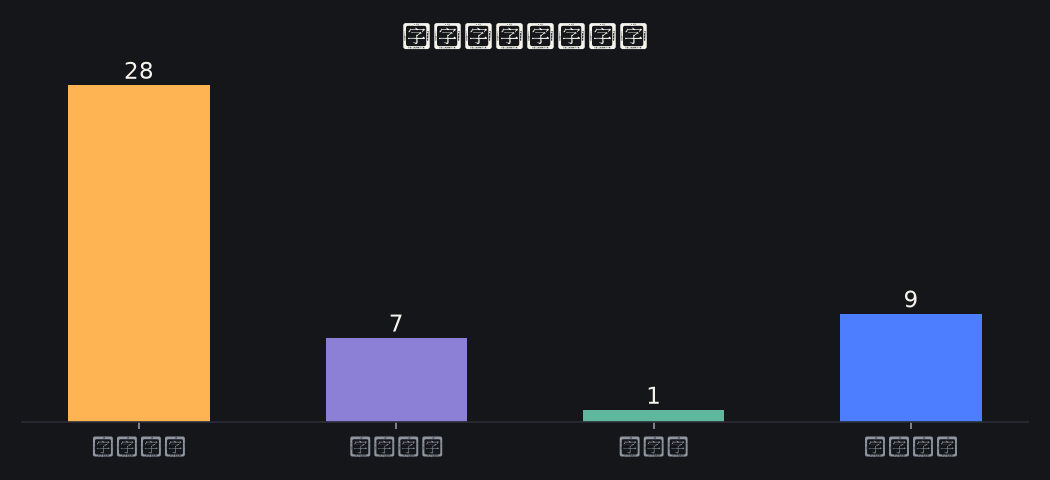
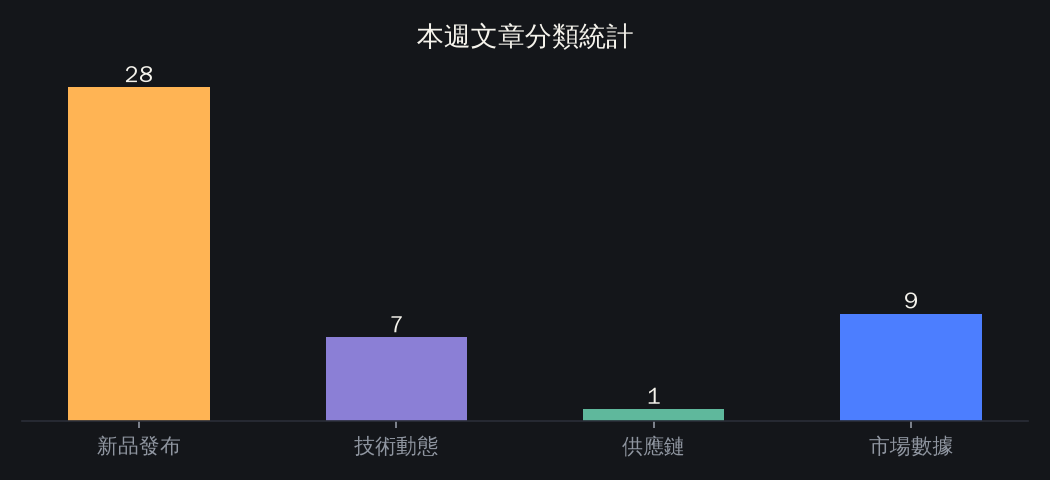
fix: use WenQuanYi Zen Hei for chart CJK text (was rendering as tofu boxes)

diff --git a/generate_weekly_report.py b/generate_weekly_report.py
@@ -68,7 +68,7 @@ def _draw_category_chart(articles: list[dict], out_path: str) -> bool:
     import matplotlib.pyplot as plt
 
     # 盡量找一個裝置上有的中文字型，找不到就讓 matplotlib 用預設（英文/數字仍會正常顯示）
-    for font_name in ["Microsoft JhengHei", "Microsoft YaHei", "PingFang TC",
+    for font_name in ["WenQuanYi Zen Hei", "Microsoft JhengHei", "Microsoft YaHei", "PingFang TC",
                        "Noto Sans CJK TC", "SimHei", "Arial Unicode MS"]:
         if font_name in {f.name for f in matplotlib.font_manager.fontManager.ttflist}:
             plt.rcParams["font.sans-serif"] = [font_name]

diff --git a/reports/2026-W34.md b/reports/2026-W34.md
@@ -1,29 +1,19 @@
 # 2026-08-17 ～ 2026-08-23 投影機產業週報
 
 ## 本週重點
-本週投影機市場動態相當豐富！品牌端有當貝推出主打靈動雲台與行動供電的便攜雷射新品 RX10，明基則發表高亮度雷射商用機 LH660。同時，中國經銷商通路針對愛普生、奧圖碼、松下與明基等多款家用及工程機種展開一波特價促銷。在供應鏈與前瞻技術方面，光學互連技術成為 AI 趨勢下的新焦點，中國唯捷光電大手筆投資 7.41 億美元投入磷化銦雷射晶片，Lightmatter 也提出了全光學互連藍圖。消費端討論則聚焦於便攜機型的普及化、DLP 彩虹效應（RBE）以及防塵維護等議題。
+本週投影機市場在新機發布與經銷商通路促銷上相當熱絡。當貝與明基分別推出針對家用雲台與高亮商用的新機 RX10 與 LH660（IT之家）。同時，北京等在地經銷商針對愛普生、奧圖碼、明基、光峰與易仁科技等多款家用與工程機型展開密集促銷（ZOL投影機頻道）。此外，上游供應鏈也有重磅動態，唯捷光電大手筆投資雷射晶片以擴充 AI 光互連佈局（DigiTimes）。
 
 ## 市場與品牌動態
-* **新品發布動向**
-  * **當貝** 於京東推出 RX10 雲台雷射投影儀，售價 5,499 元人民幣。搭載 0.33 吋 DMD 晶片、1080P 解析度與 1200 CVIA 流明，具備 225° 俯仰調節雲台、MT9669 晶片，並支援行動電源供電與 HDMI 2.1 介面 (IT之家)。
-  * **明基（BenQ）** 發表全新雷射商用投影機 LH660，首售價 9,499 元人民幣。專為大型會議室設計，提供 4600 流明高亮度、1080P 解析度與 0.65 吋 DMD 晶片，並配備 IP6X 防塵光機與 1.3 倍變焦鏡頭 (IT之家)。
-  * **海信（Hisense）** 即將推出最新一代 PX4 Pro 雷射電視，挪威市場消費者正評估其與促銷中的前代 PX3 Pro 之間的價格與規格升級幅度 (Reddit r/projectors)。
-
-* **通路與促銷動脈**
-  * **家用與展演機種促銷**：奧圖碼 UHZ616 4K 雷射家用投影機推出 9,699 元人民幣特價；愛普生家庭劇院機型 CH-TW7000 與 CH-TW7400 在北京經銷商分別打出 8,499 元與 15,000 元人民幣促銷價；光峰 AL-DK750S 4K 雷射工程機配合七夕開展推廣；易仁科技亦針對 YR-PPV60AW（4K 雷射超短焦）及 YR-CL7816（3LCD 雷射高亮）展開暑期特惠 (ZOL投影機頻道)。
-  * **商務與工程機種特價**：北京經銷商通路針對松下 PT-BMZ51SC（售價 39,760 元人民幣）與短焦機 PT-X3282STC、明基 E545（4,199 元人民幣）與 E585（6,099 元人民幣）、愛普生 CB-2265U（10,500 元人民幣）、索諾克 SNP-AC55LU（8,000 元人民幣）與 SNP-AC40LU（12,530 元人民幣）、宏碁 AX620（3,000 元人民幣）進行促銷；日立 TCP-D1070U 雙燈工程機則進行清庫存特價 (ZOL投影機頻道)。
+* **當貝新品登場**：當貝發表 RX10 雲台投影儀，採用 0.33 吋 DMD 晶片與雷射光源，提供 1080P 解析度與 1200 CVIA 流明，售價 5,499 元人民幣（IT之家）。
+* **明基發表高亮商用機**：明基推出 LH660 雷射商用投影機，主打 4600 流明高亮度、0.65 吋 DMD 晶片與 IP6X 防塵等級，首發價 9,499 元人民幣（IT之家）；經銷商同步針對 E545、E585 與 EH6834 等商用機種展開價格促銷（ZOL投影機頻道）。
+* **品牌通路優惠齊發**：奧圖碼 UHZ616 4K 雷射家用機特價 9,699 元人民幣（ZOL投影機頻道）；愛普生 CH-TW7000（8,499 元人民幣）、CH-TW7400（15,000 元人民幣）及商用 CB-2265U（10,500 元人民幣）於北京經銷商祭出優惠（ZOL投影機頻道）；光峰 AL-DK750S 4K 雷射工程機與易仁科技 YR-PPV60AW 超短焦等機型亦推出節慶與暑期促銷（ZOL投影機頻道）。
+* **海信旗艦與買賣爭議**：海外社群熱烈討論海信 PX3 Pro 與即將上市、價格預計高出兩倍的 PX4 Pro 雷射電視選購抉擇；同時也有消費者反映在電商平台買到海信 PT1 退貨整新機之疑慮（Reddit r/projectors）。
 
 ## 技術與供應鏈
-* **AI 光互連與雷射晶片佈局**
-  * **唯捷光電** 投資約 7.41 億美元於常州建立研發製造基地，將業務由 VCSEL 拓展至高階磷化銦（InP）雷射晶片，主要應用於 AI 光互連通訊 (DigiTimes)。
-  * **Lightmatter** 針對 SerDes 傳輸速度逼近 448G 導致的傳統銅纜瓶頸，提出全光學互連架構藍圖，加速推進資料中心轉向光通訊 (DigiTimes)。
-
-* **顯示技術與消費體驗討論**
-  * **彩虹效應與技術選擇**：部分消費者因無法適應 DLP 投影機的彩虹效應（RBE）而選擇退貨，並轉向尋求畫質相近但無彩虹效應的 LCD 技術或其他替代方案 (Reddit r/projectors)。
-  * **光學防塵與維護痛點**：極米（XGIMI）與小米 L1 Pro 等機種在社群上引發關於畫面微小黑點/斑點的討論，反映出光學引擎進塵（Dust Blobs）與 DMD 晶片維護仍是消費級產品常見的硬體痛點 (Reddit r/projectors)。
-  * **使用情境轉變**：隨著快速校正與可攜性提升，投影機正從過往繁瑣的「正式觀影設備」逐漸轉型為融入日常生活的「隨性娛樂工具」(Reddit r/projectors)。
+* **唯捷光電巨額投資雷射晶片**：中國唯捷光電投資約 7.41 億美元於常州建立製造基地，將業務由 VCSEL 擴展至高階磷化銦（InP）雷射晶片，全力搶攻 AI 光互連市場（DigiTimes）。
+* **全光學架構突破傳輸瓶頸**：面對 AI 資料中心 SerDes 速度逼近 448G 的銅纜極限，Lightmatter 提出全光學互連架構藍圖，推動光學技術發展（DigiTimes）。
+* **消費端防塵與品質痛點**：社群用戶反映極米與小米 L1 Pro 等機種出現畫面微小斑點，持續引發關於光學引擎進塵（Dust Blobs）與 DMD 晶片維護的討論（Reddit r/projectors）。
 
 ## 下週關注
-1. 觀察當貝 RX10（便攜雲台）與明基 LH660（高亮商務）上市後的市場接受度與消費者實機測評 (IT之家)。
-2. 關注 AI 算力需求帶動下，唯捷光電等光學元件廠在高階雷射晶片供應鏈的後續發展 (DigiTimes)。
-3. 留意消費級投影機品牌是否針對進塵防護與 DLP 彩虹效應提出更完善的技術解決方案 (Reddit r/projectors)。
+* **海信 PX4 Pro 上市時程與價格**：市場持續關注海信新款雷射電視 PX4 Pro 的實際上市時間與最終定價策略（Reddit r/projectors）。
+* **工程與商用機清庫存效應**：日立雙燈工程機（TCP-D1070U）清庫存與各品牌工程機款促銷後續的市場接受度（ZOL投影機頻道）。
